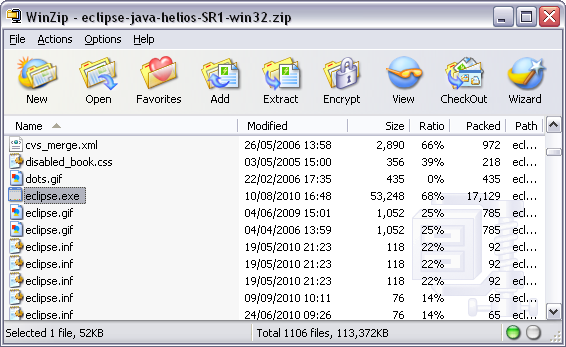
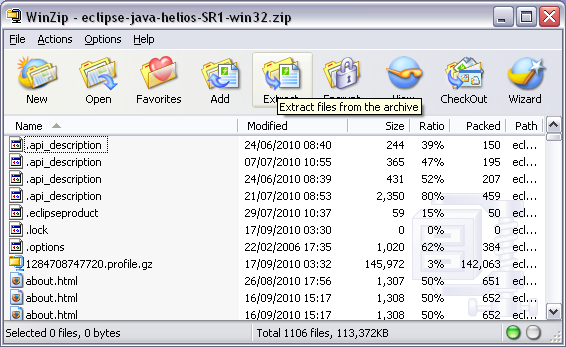
Installation download eclipse are completed with new comments and picture. Delete format ".jpg" picture.

diff --git a/installation_eclipse.html b/installation_eclipse.html
@@ -82,36 +82,43 @@ Select "<b> <u>S</u>ave </b>" button.</p>
 <p><img alt="Eclipse download page" src="images/installation/download_eclipse_6.png" /></p>
 <p>"<b> Download complete </b>" dialog box is opened. Select "<b> <u>O</u>pen </b>" button.</p>
 <br/>
-
+<h2>Eclipse installation</h2>
 <p><img alt="Eclipse download page" src="images/installation/download_eclipse_7.png" /></p>
-<p>"<b> WinZip - eclipse-java-helios-SR1-win32.zip </b>" dialog box is opened. Open "<b> eclipse.exe </b>" file.</p>
+<p>"<b> WinZip - eclipse-java-helios-SR1-win32.zip </b>" dialog box is opened. Select "<b> Extract </b>" button.</p>
 <br/>
 
 <p><img alt="Eclipse download page" src="images/installation/download_eclipse_8.png" /></p>
-<p>"<b> WinZip Caution </b>" dialog box is opened. Select "<b> <u>Y</u>es </b>" button.</p>
-<br/>
-
- to start download and launch Eclipse installation.</p>
-<br/>
-
-
-
-
-<br/>
-
-<h2>Eclipse installation</h2>
-<p>After file download, extract file on your hard drive.</p>
+<p>"<b> Extract - (patch where the zip file is copied) </b>" dialog box is opened. <br/>
+Choose a place on your hard drive to extract the "zip" file in the textfield "<b> E<u>x</u>tract to: </b>". </p>
 <p class="note warning">
 <b>Warning:</b><br/>
-The folder tree where Eclipse is installed must not contain white spaces.<br/>
-Mobile Widgets SDK does not support space in folder name.
+The folder tree where Eclipse is installed <b>must not</b> contain <b>white spaces</b>.<br/>
+Mobile Widgets SDK <b>does not support space</b> in folder name.
 </p>
+Select "<b> <u>E</u>xtract </b>" button.</p> 
+<br/>
+
+<p><img alt="Eclipse download page" src="images/installation/download_eclipse_9.png" /></p>
+<p><img alt="Eclipse download page" src="images/installation/download_eclipse_10.png" /></p>
+<p>A folder "<b> eclipse </b>" is created in the place choosen on your drive. </p>
+<br/>
+
+<p><img alt="Eclipse download page" src="images/installation/download_eclipse_11.png" /></p>
+<p>All files used by "<b> eclipse </b>" are installed in this folder. </p>
 <br/>
 
 <h2>Eclipse first launch</h2>
-<img alt="Launch Eclipse" src="./images/installation/download_eclipse_3.jpg" /><br/>
-<p>Open Eclipse folder and launch <span class="highlight"><b>eclipse.exe</b></span> file to open Eclipse.</p>
+<img alt="Launch Eclipse" src="./images/installation/download_eclipse_11.png" /><br/>
+<p>Open <b>eclipse</b> folder and launch "<b> eclipse.exe </b>" file to open <b>Eclipse</b>.</p>
 <br/>
+
+
+
+
+
+
+
+
 
 <h2>Proxy configuration on Eclipse</h2>
 <p>This part explains how to configure your proxy on Eclipse.</p>

diff --git a/faq.html b/faq.html
@@ -1,4 +1,4 @@
-<!DOCTYPE html
+<!DOCTYPE html
   PUBLIC "-//W3C//DTD XHTML 1.0 Transitional//EN"
   "http://www.w3.org/TR/xhtml1/DTD/xhtml1-transitional.dtd"> 
 
@@ -106,9 +106,9 @@ You can hide the console pressing <b>*</b> or by touching the center of the scre
 <h2>Why cannot I see any pure VRML examples</h2>
 
 <p>
-this is because BIFS (and thus MeMo) suppose an implicit
+This is because MeMo supposes an implicit
 <a href="development_node_Layer2D.html">Layer2D</a> at the beginning of the
-scene and therefore an implicit 2D context.<!-- [TODO Not display 3D part]To open a 3D context, enclose your
+cene and therefore an implicit 2D context.<!-- [TODO Not display 3D part]To open a 3D context, enclose your
 VRML source with a <a href="development_node_Layer3D.html">Layer3D</a> like below:
 </p>
 <textarea rows="5" cols="80" readonly="readonly" wrap="off">
@@ -121,15 +121,15 @@ Layer3D {
 </textarea>
 <br/>-->
 
-<h2>Why doesn't the background refresh ?</h2>
+<h2>Why doesn't the background refresh?</h2>
 
 <p>
-because there is no automatic background management (for optimization purposes).<br/>
+Because there is no automatic background management (for optimization purposes).<br/>
 Instead use a shape with a size identical to the screen one like in <b>helloWorl.wrl</b>.
 </p>
 <br/>
 
-<h2>Where can I find helloWorld.wrl and what does it do ?</h2>
+<h2>Where can I find helloWorld.wrl and what does it do?</h2>
 
 <p>
 Just here:
@@ -263,7 +263,7 @@ empty ("") scene and "self" as parameter.
 </p>
 <br/>
 
-<h2>How can a parent scene know that a scene just suicided ?</h2>
+<h2>How can a parent scene know that a scene just suicided?</h2>
 
 <p>
 By listening to the url field of the <a href="development_node_Inline.html">Inline</a>
@@ -392,7 +392,7 @@ Modify your micro emulator setting during tests : Option &gt; MIDlet network acc
 
 <script type="text/javascript">addTitle(" Eclipse Plugin FAQ", 1);</script>
 
-<h2>What is "Error starting modern compiler" ?</h2>
+<h2>What is "Error starting modern compiler"?</h2>
 
 <p>
 Check that JARs referenced in <b>Windows &gt; Preferences &gt; Ant &gt; Runtime
